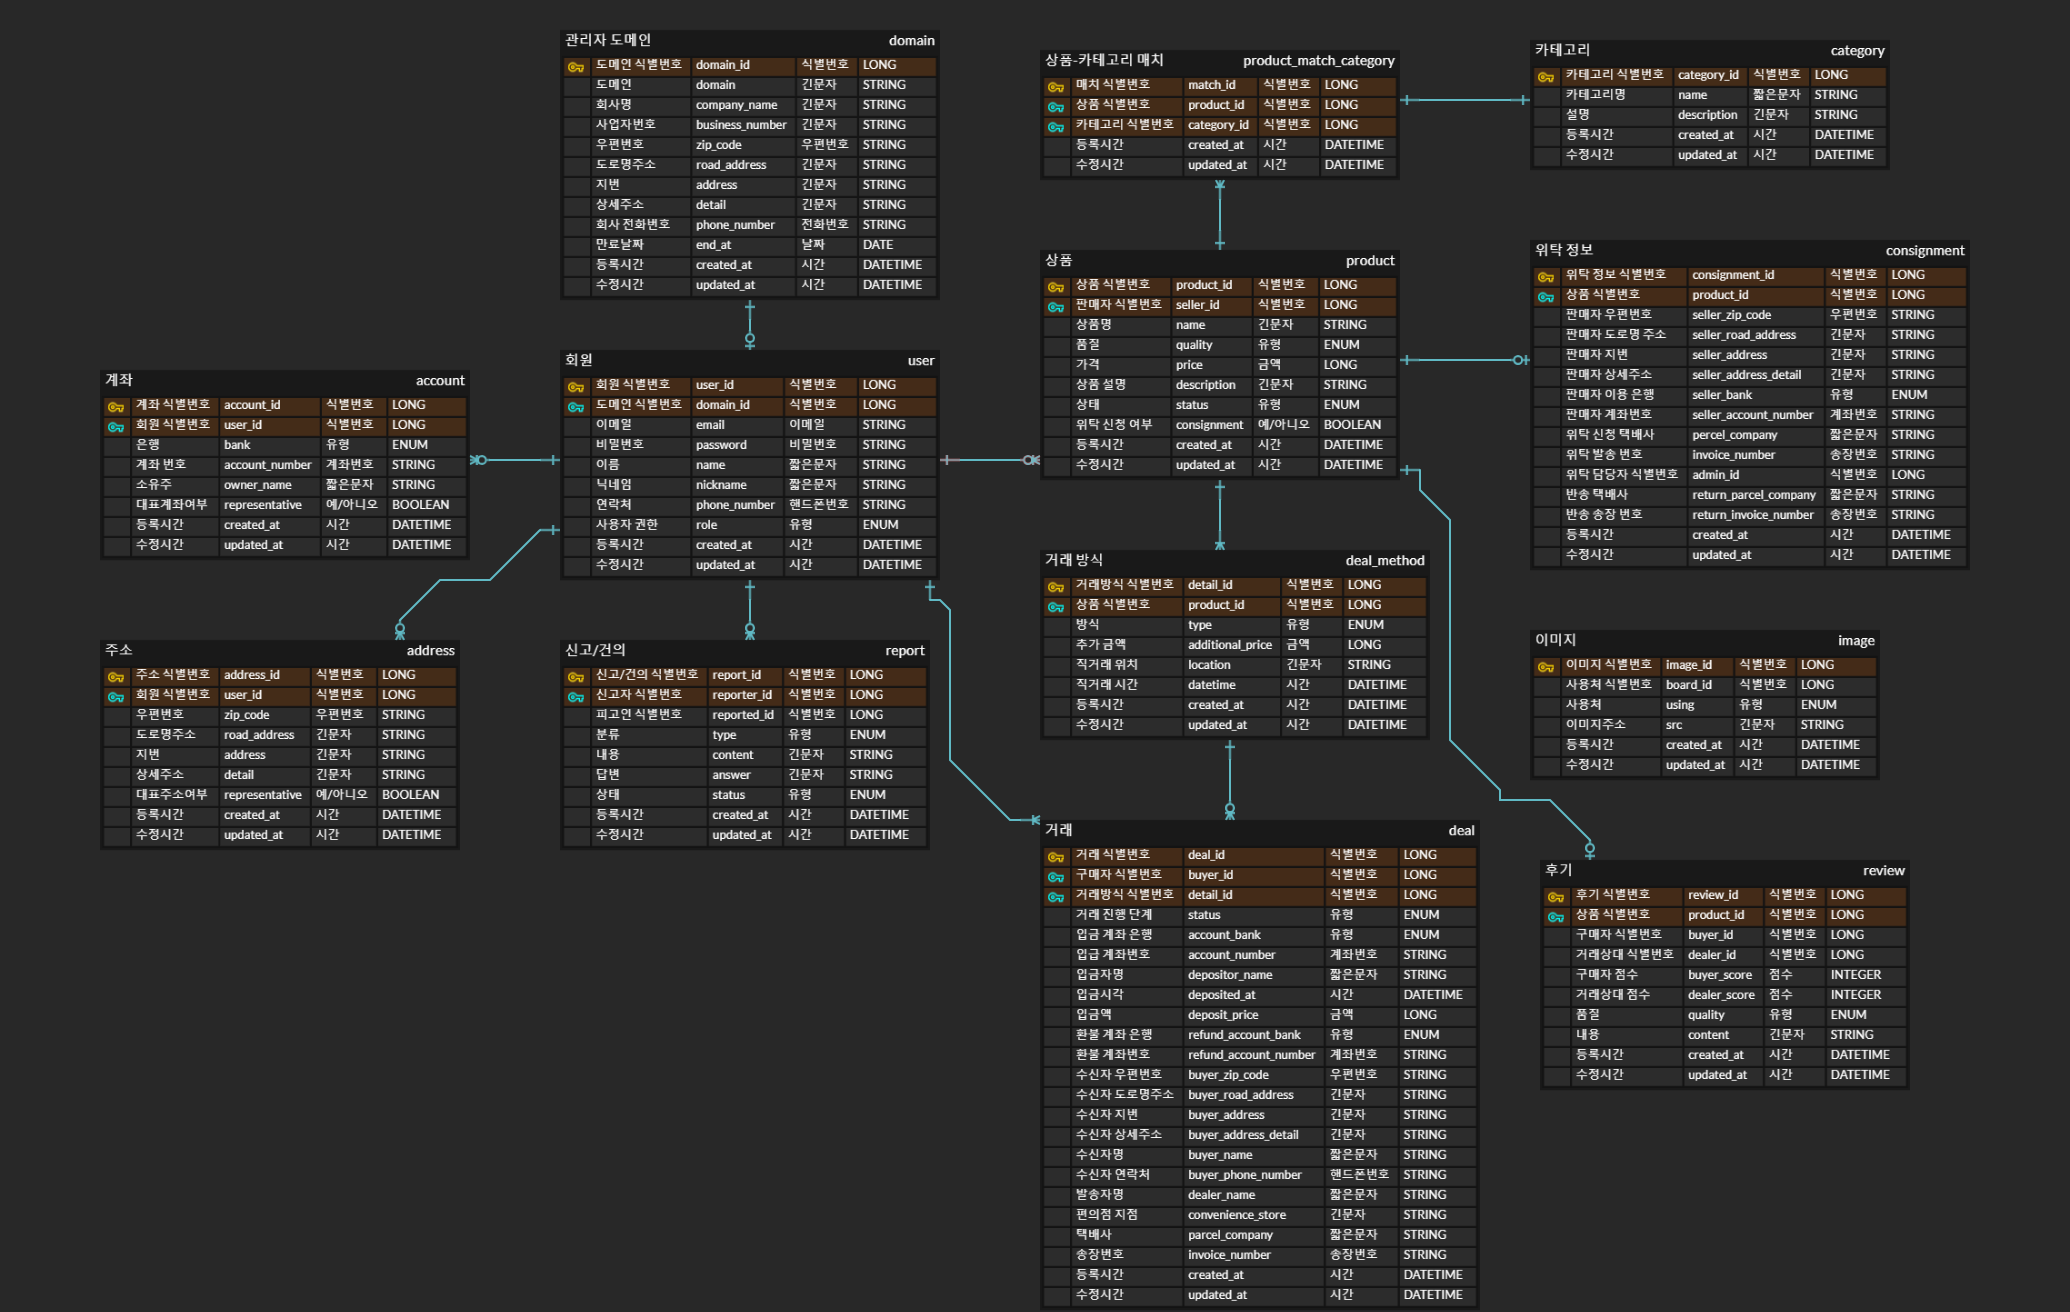
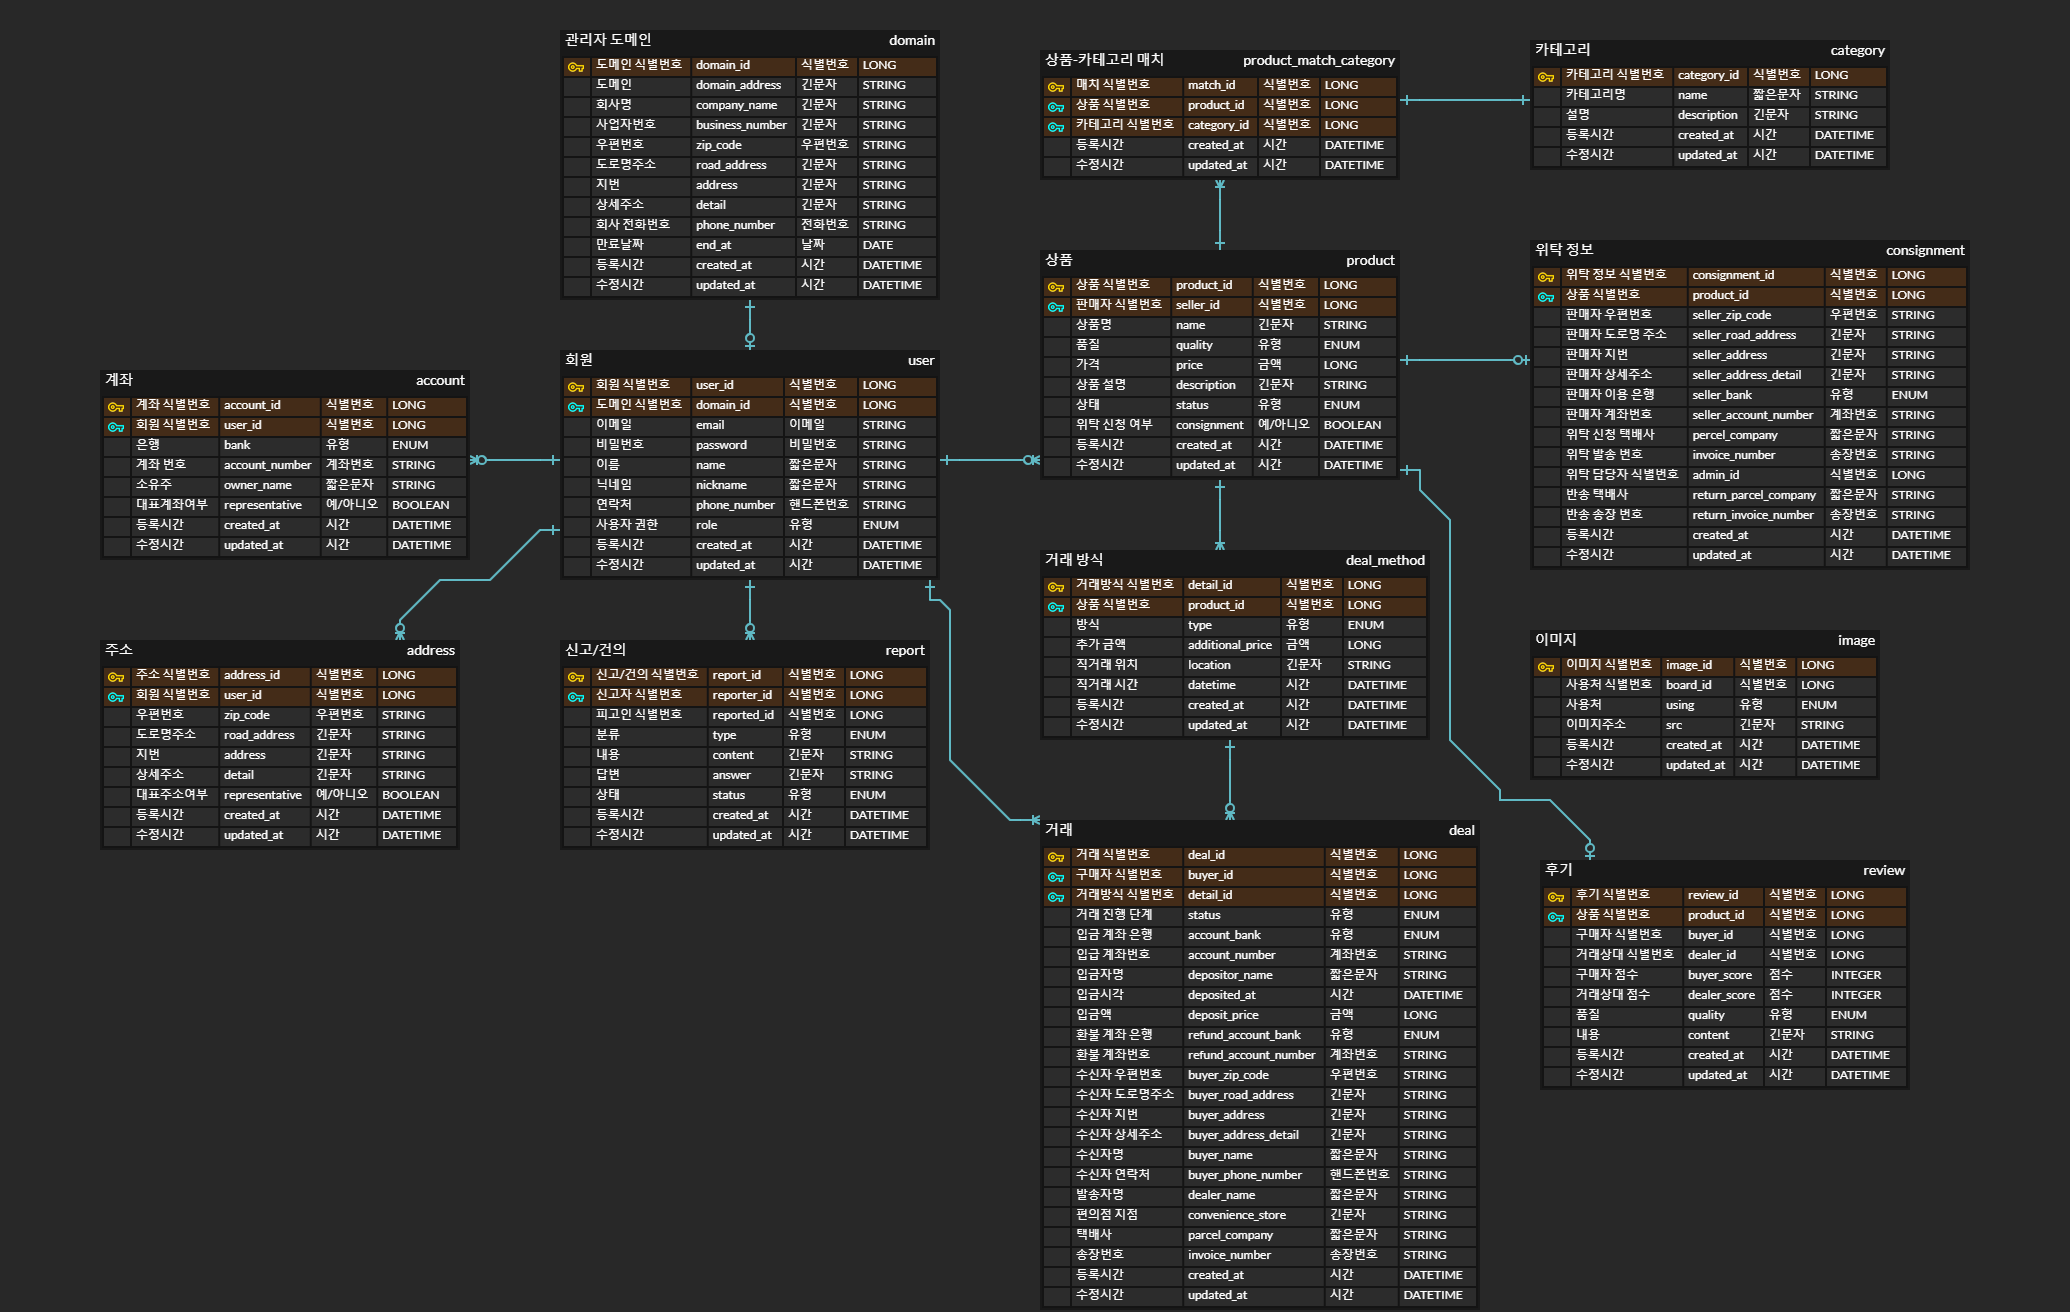
chore: README.md에 빠진 기능(조회) 추가, Entity(Domain) 명과 동일한 항목 이름 수정(domain > domain_address)

diff --git a/README.md b/README.md
@@ -11,12 +11,24 @@
         - 기업은 고유한 도메인을 가지고 있고, 일반 사용자는 관리자 도메인에 등록되어있는 도메인을 이용할 수 없다.
         - 관리자 도메인을 등록하기 전에 이미 해당 도메인을 이용하는 일반 사용자/거래 불가자가 있는 경우 지금은 기업에 종사하는 사람으로 판단, 관리자 권한으로 변경된다.
         - 관리자 권한으로 변경될 때 주소/계좌가 2개 이상 등록되어있는 경우 대표 계좌/주소 외의 정보는 삭제된다.
+    - 관리자 도메인 목록 조회
+        - 등록되어있는 모든 도메인 정보를 불러온다.
+        - 입력 기준: 회사명 검색어, 도메인 검색어, 보이는 페이지, 한 페이지당 보이는 정보 개수, 정렬 기준, 필터
+        - 검색어를 모두 입력하지 않거나 빈 칸 입력 시 등록되어있는 모든 관리자 도메인 정보를 불러온다.
+        - 회사 명순(기본), 최근 등록순, 등록순, 만료일순으로 정렬 가능하다.
+        - 만료, 만료 전, 전체(기본)으로 결과 필터가 가능하다.
+    - 관리자 도메인 상세정보 확인
+      - 식별번호에 해당하는 관리자 회사 정보와 해당 도메인에 등록된 관리자 회원 정보를 불러온다.
+      - 필요 입력정보: 도메인 식별번호
+      - 회원 이름순(기본), 판매 점수 높은순, 판매 점수 낮은순, 최근 가입순, 가입순으로 정렬 가능하다.
     - 관리자 도메인 갱신
         - 만료된 후 날짜를 갱신한다면 갱신하는 날짜 기준으로, 날짜가 남아있는데 갱신한다면 지정되어있는 만료 날짜를 기준으로 1, 6, 12개월 간격으로 만료되는 날짜를 늘릴 수 있다.
     - 도메인 정보 수정
         - 식별번호에 해당하는 도메인 정보를 변경할 수 있다.
         - 수정 가능 정보: 도메인, 회사명, 사업자번호, 우편번호, 도로명 주소, 지번, 상세주소, 회사 전화번호
         - 도메인 변경 시 해당 도메인을 이용하는 관리자들의 이메일 주소는 자동으로 변경된다.
+        - 상세 주소를 제외한 값들은 값을 입력하지 않거나 빈 칸 입력 시 기존의 정보가 그대로 이어진다.
+        - 상세 주소는 빈 칸 입력 시 빈 칸으로 등록된다. 기존 정보가 이어지길 바라면 입력값이 null 이어야 한다.
     - 도메인 삭제
       - 식별번호에 해당하는 도메인 주소를 삭제할 수 있다.
       - 이 때, 해당 도메인의 기간은 만료 상태여야 하며, 이 도메인을 사용하고 있던 관리자들은 모두 일반 사용자 권한으로 변경된다.
